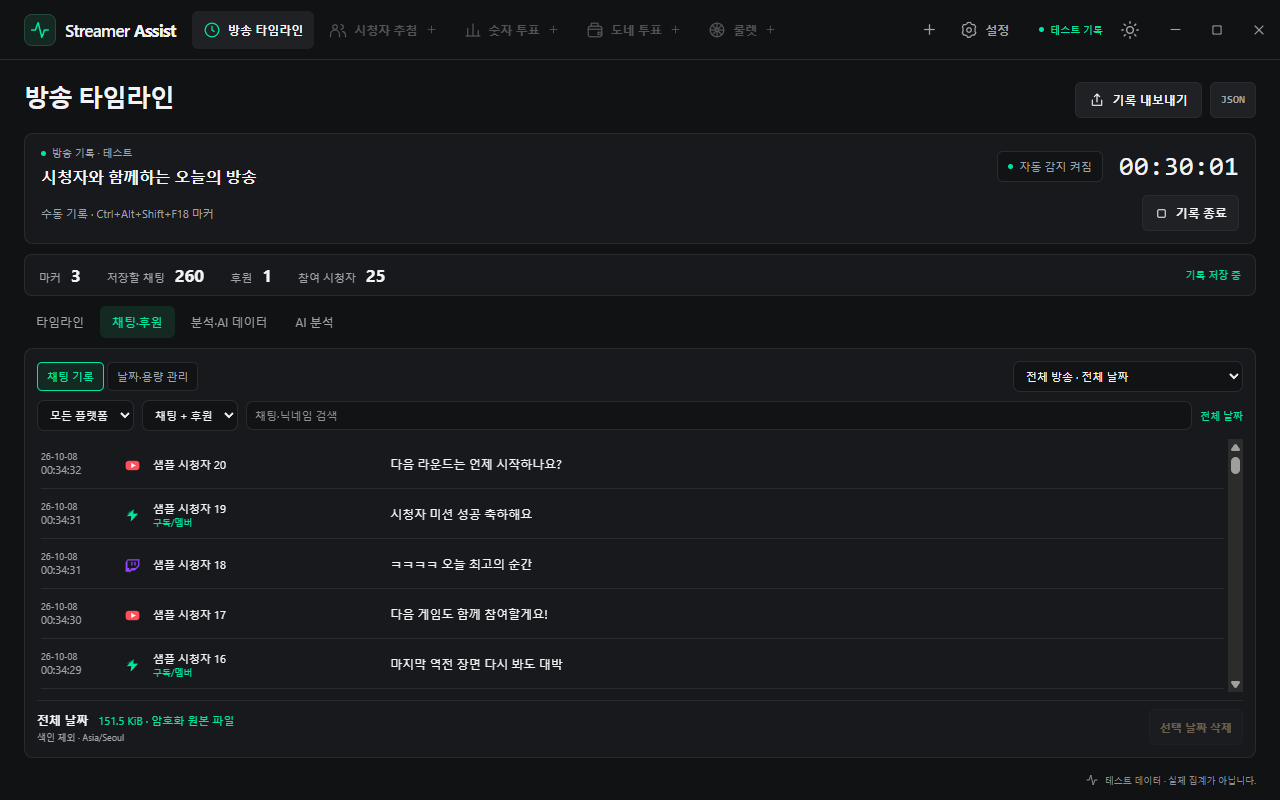
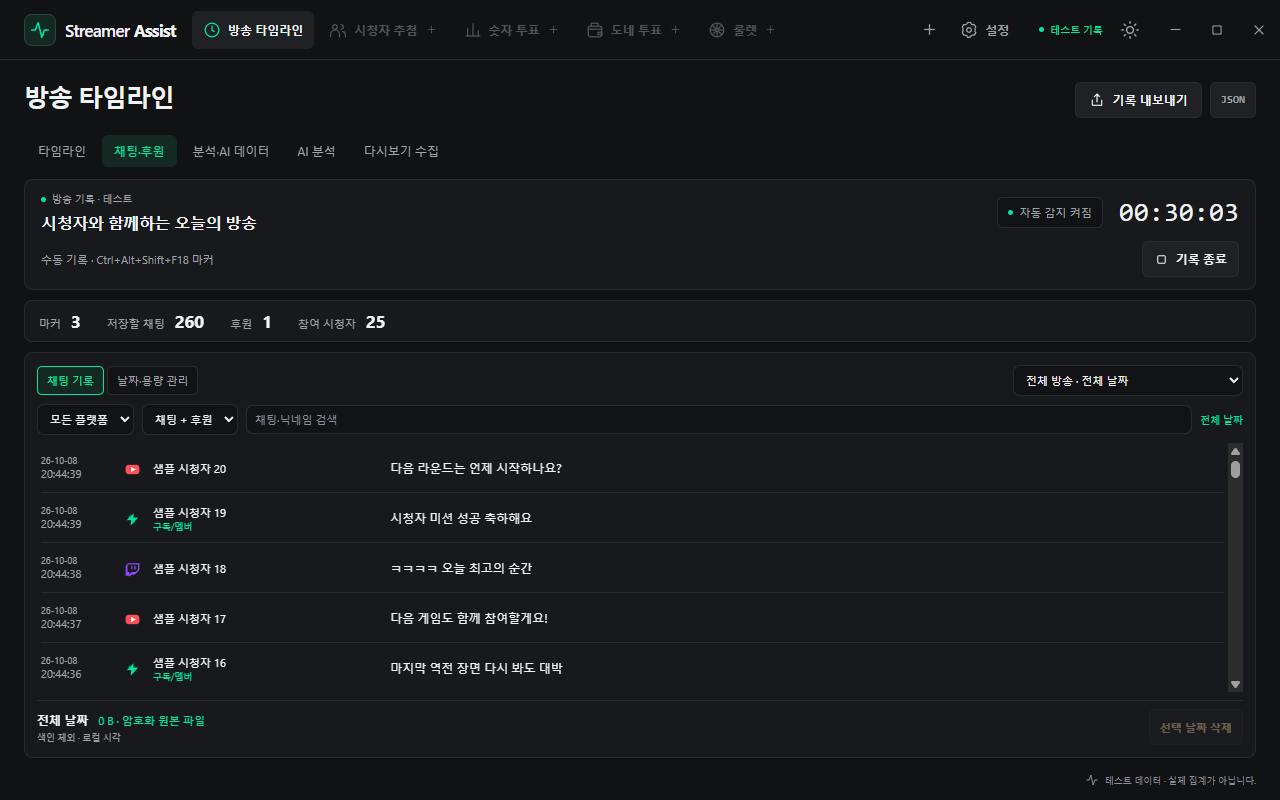
Improve timeline layout and recording performance; refresh documentation

diff --git a/src/timeline.tsx b/src/timeline.tsx
@@ -137,8 +137,12 @@ function ViewerChart({
       </div>
       <div className="viewer-chart">
         {known.length ? (
+          <div className="viewer-graph">
+            <div className="viewer-y-axis" data-max={max.toLocaleString()} aria-hidden="true">
+              {[1, 0.5, 0].map(f => <span key={f} style={{ top: `${(1 - f) * 100}%` }}>{Math.round(max * f).toLocaleString()}</span>)}
+            </div>
           <svg
-            viewBox="0 0 570 176"
+            viewBox="38 28 510 120"
             preserveAspectRatio="none"
             role="img"
             aria-label="방송 경과 시간에 따른 실제 동시 시청자 수 그래프"
@@ -152,19 +156,14 @@ function ViewerChart({
                   y2={148 - f * 120}
                   className="chart-grid"
                 />
-                <text x="30" y={152 - f * 120} textAnchor="end">
-                  {Math.round(max * f)}
-                </text>
               </g>
             ))}
             <path d={path} className={"viewer-line " + platform} />
-            <text x="38" y="169">
-              {timecode(0)}
-            </text>
-            <text x="548" y="169" textAnchor="end">
-              {timecode(end)}
-            </text>
           </svg>
+            <div className="viewer-x-axis" aria-hidden="true">
+              <span>{timecode(0)}</span><span>{timecode(end)}</span>
+            </div>
+          </div>
         ) : (
           <div className="telemetry-empty">
             <Icon name="activity" size={27} />
@@ -376,6 +375,44 @@ export function TimelineWorkspace({
   );
   return (
     <div className={"timeline-workspace page-body" + (view === "ai" ? " ai-timeline-view" : "")}>
+      <div className="telemetry-toolbar">
+        <div
+          className="telemetry-tabs"
+          role="tablist"
+          aria-label="타임라인 화면"
+        >
+          {[
+            ["overview", "타임라인"],
+            ["records", "채팅·후원"],
+            ["analysis", "분석·AI 데이터"],
+            ["ai", "AI 분석"],
+            ["replay", "다시보기 수집"],
+          ].map(([id, name]) => (
+            <button
+              key={id}
+              role="tab"
+              aria-selected={view === id}
+              onClick={() => setView(id as typeof view)}
+            >
+              {name}
+            </button>
+          ))}
+        </div>
+        <select
+          aria-label="방송 기록 선택"
+          style={{ visibility: view === "records" ? "hidden" : undefined }}
+          disabled={view === "records"}
+          value={selected}
+          onChange={(e) => onSelect(e.target.value)}
+        >
+          <option value="">현재 / 최근 방송</option>
+          {sessions.map((s) => (
+            <option key={s.id} value={s.id}>
+              {s.title}
+            </option>
+          ))}
+        </select>
+      </div>
       <section className="session-card telemetry-session" hidden={view === "replay"}>
         <div className="session-top">
           <div>
@@ -487,42 +524,6 @@ export function TimelineWorkspace({
             ? "저장 확인 필요"
             : "기록 저장 중"}
         </span>}
-      </div>
-      <div className="telemetry-toolbar">
-        <div
-          className="telemetry-tabs"
-          role="tablist"
-          aria-label="타임라인 화면"
-        >
-          {[
-            ["overview", "타임라인"],
-            ["records", "채팅·후원"],
-            ["analysis", "분석·AI 데이터"],
-            ["ai", "AI 분석"],
-            ["replay", "다시보기 수집"],
-          ].map(([id, name]) => (
-            <button
-              key={id}
-              role="tab"
-              aria-selected={view === id}
-              onClick={() => setView(id as typeof view)}
-            >
-              {name}
-            </button>
-          ))}
-        </div>
-        {view !== "records" && <select
-          aria-label="방송 기록 선택"
-          value={selected}
-          onChange={(e) => onSelect(e.target.value)}
-        >
-          <option value="">현재 / 최근 방송</option>
-          {sessions.map((s) => (
-            <option key={s.id} value={s.id}>
-              {s.title}
-            </option>
-          ))}
-        </select>}
       </div>
       {(error || monitoring?.error) && (
         <div

diff --git a/src/timeline.css b/src/timeline.css
@@ -5,6 +5,10 @@
   min-height: 0;
   overflow: hidden;
 }
+.timeline-workspace :is(button, input, textarea, select):focus-visible,
+.timeline-workspace .input-unit:focus-within {
+  outline-offset: -2px;
+}
 .telemetry-session {
   padding: 12px 16px;
 }
@@ -112,21 +116,29 @@
   color: var(--warning-ink);
 }
 .telemetry-toolbar {
-  display: flex;
+  display: grid;
+  grid-template-columns: minmax(0, 1fr) auto;
   align-items: center;
   justify-content: space-between;
   gap: 12px;
   flex: none;
 }
 .telemetry-toolbar select {
+  min-width: 0;
+  width: 220px;
   max-width: 220px;
   padding: 7px 9px;
 }
 .telemetry-tabs {
   display: flex;
   gap: 4px;
+  min-width: 0;
+  overflow-x: auto;
+  padding: 2px;
 }
 .telemetry-tabs button {
+  flex: none;
+  white-space: nowrap;
   border: 0;
   background: transparent;
   color: var(--muted);
@@ -184,14 +196,47 @@
   min-height: 0;
   display: flex;
 }
-.viewer-chart > svg {
+.viewer-graph {
+  display: grid;
+  grid-template-columns: auto minmax(0, 1fr);
+  grid-template-rows: minmax(0, 1fr) auto;
+  gap: 10px 8px;
+  flex: 1;
+  min-width: 0;
+  min-height: 0;
+  padding-top: calc(7px * var(--text-scale));
+}
+.viewer-graph > svg {
   width: 100%;
   height: 100%;
   min-height: 0;
 }
-.viewer-chart > svg text {
-  fill: var(--muted);
-  font-size: calc(9px * var(--text-scale));
+.viewer-y-axis,
+.viewer-x-axis {
+  color: var(--muted);
+  font-size: calc(10px * var(--text-scale));
+  line-height: 1.4;
+  font-variant-numeric: tabular-nums;
+  white-space: nowrap;
+}
+.viewer-y-axis {
+  position: relative;
+  min-width: 3ch;
+}
+.viewer-y-axis span {
+  position: absolute;
+  right: 0;
+  transform: translateY(-50%);
+}
+.viewer-y-axis::before {
+  content: attr(data-max);
+  visibility: hidden;
+}
+.viewer-x-axis {
+  grid-column: 2;
+  display: flex;
+  justify-content: space-between;
+  gap: 8px;
 }
 .chart-grid {
   stroke: var(--border);

diff --git a/src/history-records.tsx b/src/history-records.tsx
@@ -43,7 +43,7 @@ export function HistoryRecords({ filters, refresh, live, disabled, onParticipant
     return () => observer.disconnect();
   }, []);
   useEffect(() => {
-    let disposed = false, busy = false, records: TimelineEvent[] = [], cursor: HistoryCursor | null = null, remaining = true;
+    let disposed = false, busy = false, records: TimelineEvent[] = [], seen = new Set<string>(), cursor: HistoryCursor | null = null, remaining = true;
     setEvents([]); setError(""); setHasMore(true); setLoading(!disabled);
     if (viewport.current) viewport.current.scrollTop = 0;
     setPosition(previous => ({ ...previous, top: 0 }));
@@ -58,7 +58,7 @@ export function HistoryRecords({ filters, refresh, live, disabled, onParticipant
         // A reader who moved down while the latest batch was loading keeps their place.
         if (headRefresh && viewport.current && viewport.current.scrollTop > 0) return;
         const data = reply.data as HistoryRecordsResult;
-        const seen = new Set(append ? records.map(identity) : []);
+        if (!append) seen = new Set<string>();
         const next = data.events.filter(event => { const key = identity(event); if (seen.has(key)) return false; seen.add(key); return true; });
         records = append ? [...records, ...next] : next;
         cursor = data.nextCursor; remaining = data.hasMore;

diff --git a/src/ai-analysis.tsx b/src/ai-analysis.tsx
@@ -9,6 +9,7 @@ import type { AiJob, AiPreview, AiScope } from "./ai-types";
 import type { TimelineSession } from "./timeline-types";
 import functionCatalog from "../electron/ai-functions.json";
 import "./ai.css";
+import "./ai-assignments.css";
 const jobLabel: Record<string, string> = { preparing: "기록 준비 중", running: "분석 중", completed: "분석 완료", canceled: "취소됨", failed: "분석 실패" };
 function resultPagesFor(text: string, width: number, rows: number, font: string) {
   if (!text) return [""];

diff --git a/docs/assets/screenshots/README.md b/docs/assets/screenshots/README.md
@@ -6,6 +6,7 @@ Actual app screens with synthetic data. Choose a picture to open it at full reso
 | 보고 싶은 화면 / Area | 스크린샷 / Pictures |
 | --- | --- |
 | 방송 기록 / Recording | [타임라인 / Timeline](timeline.png) · [채팅 / Chat](chat-history.png) · [분석 / Analysis](chat-analysis.png) · [날짜 관리 / Storage](chat-storage.png) |
+| 타임라인 작업 / Timeline workspaces | [AI 분석 / AI analysis](ai-analysis.png) · [다시보기 수집 / Replay collection](replay.png) |
 | 시청자 참여 / Audience tools | [추첨 / Raffle](viewer-raffle.png) · [숫자 투표 / Number vote](live-poll.png) · [후원 투표 / Donation vote](donation-vote.png) · [룰렛 / Roulette](roulette.png) |
 | 탭·창·글자 크기 / Workspace | [탭 메뉴 / Tabs](workspace-tabs.png) · [보조 창 / Separate window](workspace-detached.png) · [큰 글자 / Larger text](text-size.png) |
 | AI 연결·설정 / AI | [AI 추가 / Add](ai-connectors.png) · [로그인 / Login](ai-login.png) · [기능별 설정 / Functions](ai-functions.png) · [그룹 설정 / Group](ai-function-editor.png) |
@@ -27,9 +28,10 @@ The main gallery uses unedited **1280 × 800** native Electron captures, refresh
 | Capture | Contents |
 | --- | --- |
 | home-dark / home-light / home-recording | Idle and recording workspaces. |
-| timeline | Sample viewer graph and manual/automatic markers. |
+| timeline | Stable navigation above broadcast controls, viewer axes that retain text proportions and manual/automatic markers. |
 | chat-history | Original-time rows, all-date scope and platform/type filters. |
 | chat-analysis | Local lexical activity, participant statistics and JSONL export controls. |
+| ai-analysis / replay | AI assignment notice, scope/prompt and results; replay collection controls while a sample recording is active. |
 | ai-connectors | The provider picker opened from an initially empty AI connection list. |
 | ai-login | Account connection dialog with a simulated successful CLI authentication response. |
 | ai-functions / ai-function-editor | Inline AI/model/reasoning dropdowns, automatic saving and group inheritance using synthetic connections; the second filename is retained from the earlier editor capture. |
@@ -48,6 +50,8 @@ npm run docs:screenshots:store
 The wrapper uses a checked renderer build, an isolated temporary profile, reduced motion and overflow/clipping checks. It removes the profile after Electron exits. Outputs are `release/readme-screens/` (1280 × 800) or `release/store-assets/screenshots/` (1600 × 900). No app installation or real poll publication occurs.
 
 Review every image before copying it here. Capture filenames stay shared by both READMEs. The displayed F18 shortcut belongs to the capture process; connection-button availability depends on developer client configuration. Do not substitute pictures from a reference voting site. Store submission selects its configured images separately; a new gallery is not automatically uploaded.
+
+The timeline, chat, analysis and storage captures now show the same top tab bar. AI analysis and replay captures use the same 1280 × 800 workflow. Viewer-axis text is separate from the resizing plot; keyboard focus stays inside timeline controls. Resize checks at 900 × 650, 1240 × 850 and 1600 × 1000 with 100%/150% text can be reproduced with `node scripts/test-desktop.cjs --suite timeline --screenshots --hidden`; their screenshots remain in `release/`.
 
 The AI connector image shows the provider picker, including bundled provider icons, in the same native 1280 × 800 documentation capture as the gallery. Separate `node scripts/test-desktop.cjs --build --suite ai-component --screenshots --hidden` captures also check the 900 × 650 layout.
 
@@ -71,6 +75,8 @@ Reproduce the text-size capture with `node scripts/test-desktop.cjs --build --su
 위 명령으로 검증된 빌드·격리 임시 프로필·동작 줄이기·스크롤/잘림 검사를 사용합니다. 종료 후 프로필을 제거하며 README는 `release/readme-screens/`, Store용 1600 × 900은 `release/store-assets/screenshots/`에 남습니다. 앱 설치나 실제 투표 게시를 하지 않습니다.
 
 이미지를 모두 검토한 뒤 이 폴더로 복사합니다. F18 조합은 캡처용이며 연결 버튼은 개발자 클라이언트 설정에 따라 달라집니다. 두 README가 같은 파일 이름을 사용하고 참고 사이트 이미지를 대신 넣지 않습니다. Store 제출용 이미지는 별도로 선택하며 갤러리 갱신만으로 업로드하지 않습니다.
+
+타임라인·채팅·분석·날짜 관리 캡처에 동일한 상단 탭 메뉴를 반영했습니다. AI 분석과 다시보기 수집도 같은 1280 × 800 캡처로 추가했습니다. 동접 그래프는 축 글자를 그래프 확대와 분리하고, 키보드 포커스는 컨트롤 안쪽에 표시합니다. `node scripts/test-desktop.cjs --suite timeline --screenshots --hidden`으로 900 × 650·1240 × 850·1600 × 1000 창과 글자 크기 100%·150% 검사를 재현할 수 있습니다. 검사 스크린샷은 `release/`에 보관합니다.
 
 AI 연결 이미지는 공급자 아이콘이 포함된 AI 추가 선택창이며 갤러리와 같은 1280 × 800 문서 캡처입니다. 별도의 `node scripts/test-desktop.cjs --build --suite ai-component --screenshots --hidden` 캡처에서도 900 × 650 배치를 확인합니다.
 

diff --git a/docs/certification.md b/docs/certification.md
@@ -12,6 +12,7 @@
 6. 투표 종료 후 **결과로 룰렛**으로 득표수를 전달하거나, **룰렛**에서 독립적으로 항목·가중치를 입력해 회전과 당첨 결과를 확인합니다.
 7. 타임라인의 동접 그래프, **채팅·후원** 전체 날짜/플랫폼 필터, **날짜·용량 관리** 일·주·월 선택을 확인합니다. **분석·AI 데이터**에서 로컬 통계·JSONL을 확인하고 방송 종료 후 마커를 Markdown/JSON으로 내보냅니다. **정보·데이터**에서 개인정보처리방침과 기록 삭제를 확인합니다.
 8. **+**나 탭 우클릭 메뉴로 같은 도구를 여러 탭·창에 열어 봅니다. 순서 이동·창 간 이동·탭 닫기·모두 닫기를 확인합니다. 기록·플랫폼 수집은 공유하며 탭을 닫아도 계속됩니다. 배치·창 위치는 재시작 후 복원합니다.
+9. 타임라인 내부의 다섯 탭은 방송 기록 패널 위에 같은 순서·위치로 표시됩니다. 탭 전환, 키보드 포커스, 창 확대와 글자 크기 150%에서 탭·필터 테두리와 동접 그래프의 축 숫자·시간이 잘리거나 늘어나지 않는지 확인합니다. **AI 분석**의 미지정 안내와 **다시보기 수집**도 같은 상단 탐색을 사용합니다.
 9. **설정 → 일반 → 글자 크기**를 95~150%로 조절하고 기본값 복원과 창 간 동기화를 확인합니다. 숫자·도네 투표는 **자동 종료 타이머**를 분·초로 설정해 남은 시간과 종료를 확인할 수 있습니다.
 
 ## 선택적 AI 연결·분석 확인

diff --git a/docs/certification.en.md b/docs/certification.en.md
@@ -12,6 +12,7 @@ This Windows desktop app provides broadcast timelines, local chat reaction highl
 6. Import an ended vote with **결과로 룰렛**, or create independent weighted roulette entries.
 7. In the timeline, inspect the viewer graph, **채팅·후원** all-date/platform filters and **날짜·용량 관리** day/week/month selection. In **분석·AI 데이터**, inspect local statistics and export JSONL. Stop the recording and export Markdown/JSON. **설정 → 정보·데이터** provides the bundled policy and confirmed record deletion.
 8. Use **+** or the tab context menu to open multiple instances in tabs/windows. Check reordering, transfers, Close and Close All. Recording and platform collection remain shared and continue after a tab closes. Layouts and window positions survive restart.
+9. The five timeline view tabs keep the same order and position above broadcast controls. Check view switching, keyboard focus, larger windows and 150% text size: tab/filter outlines and viewer-axis values/timestamps should stay visible without stretching. **AI 분석** includes an unassigned-AI notice; **다시보기 수집** uses the same navigation.
 9. Adjust **설정 → 일반 → 글자 크기** from 95% to 150% and check reset/window synchronization. Number and donation votes offer **자동 종료 타이머** in minutes/seconds with a remaining-time display and automatic closing.
 
 ## Optional AI connection and analysis checks

diff --git a/docs/user-guide.ko.md b/docs/user-guide.ko.md
@@ -58,6 +58,10 @@
 
 ## 타임라인과 하이라이트
 
+화면 상단의 **타임라인 · 채팅·후원 · 분석·AI 데이터 · AI 분석 · 다시보기 수집** 탭으로 이동합니다. 탭 메뉴는 방송 기록 패널 위에 있어 화면을 바꿔도 같은 위치를 유지합니다. 창이 좁으면 탭 메뉴를 가로로 스크롤할 수 있습니다. 방송 선택은 오른쪽에서, **채팅·후원**의 방송·날짜 선택은 해당 기록 패널에서 합니다.
+
+동접 그래프의 축 숫자와 시간은 창을 크게 키워도 글자 비율이 유지되며, 설정한 글자 크기를 따릅니다. 키보드로 탭·필터를 이동하면 포커스 테두리가 컨트롤 안쪽에 표시됩니다. [타임라인 화면](assets/screenshots/timeline.png)을 참고하세요.
+
 1. **방송 기록 시작**으로 기록을 시작합니다. 자동으로 시작하려면 **방송 자동 감지**를 켭니다.
 2. 다시 보고 싶은 순간에 **마커** 또는 전역 단축키를 누릅니다. 설치 버전 기본 키는 `Ctrl+Shift+F8`입니다.
 3. **방송 기록 종료**로 저장합니다. 채팅·동접과 기록한 순간은 계속 조회할 수 있습니다.

diff --git a/docs/user-guide.md b/docs/user-guide.md
@@ -58,6 +58,10 @@ Only connected platforms appear as participation buttons, and only confirmed liv
 
 ## Timeline and highlights
 
+Use the **타임라인 · 채팅·후원 · 분석·AI 데이터 · AI 분석 · 다시보기 수집** tabs at the top of the workspace. Navigation sits above the broadcast controls and stays in the same position when switching views. Scroll the tab bar horizontally in a narrow window. Select a broadcast on the right; **채팅·후원** has its own broadcast/date selector inside the archive panel.
+
+Viewer-axis values and timestamps retain their proportions when the window grows and follow the text-size setting. Keyboard focus appears inside tab buttons and filters. See the [timeline screen](assets/screenshots/timeline.png).
+
 1. Press **방송 기록 시작** to record. Enable **방송 자동 감지** for automatic start.
 2. Press **마커** or the global shortcut at a moment to revisit. Installed builds default to `Ctrl+Shift+F8`.
 3. Press **방송 기록 종료** to save. Chat, viewer samples and marked moments remain available.

diff --git a/README.md b/README.md
@@ -61,7 +61,7 @@ Click a picture for full resolution. All screens use synthetic data.
 
 <table>
   <tr>
-    <td width="50%"><a href="docs/assets/screenshots/timeline.png"><img src="docs/assets/screenshots/timeline.png" alt="Broadcast clock, viewer graph and markers"></a><br><strong>Broadcast timeline</strong><br>Keep the stream clock, viewer samples and marked moments together.</td>
+    <td width="50%"><a href="docs/assets/screenshots/timeline.png"><img src="docs/assets/screenshots/timeline.png" alt="Broadcast clock, viewer graph and markers"></a><br><strong>Broadcast timeline</strong><br>Use a stable tab bar above the stream clock, viewer graph and marked moments.</td>
     <td width="50%"><a href="docs/assets/screenshots/viewer-raffle.png"><img src="docs/assets/screenshots/viewer-raffle.png" alt="Viewer recruitment and raffle result"></a><br><strong>Viewer raffle</strong><br>Draw a participant from chat.</td>
   </tr>
   <tr>

diff --git a/README.ko.md b/README.ko.md
@@ -61,7 +61,7 @@ npm run dev
 
 <table>
   <tr>
-    <td width="50%"><a href="docs/assets/screenshots/timeline.png"><img src="docs/assets/screenshots/timeline.png" alt="방송 시계·동접 그래프·마커"></a><br><strong>방송 기록</strong><br>방송 시계, 동접과 기록한 순간을 함께 봅니다.</td>
+    <td width="50%"><a href="docs/assets/screenshots/timeline.png"><img src="docs/assets/screenshots/timeline.png" alt="방송 시계·동접 그래프·마커"></a><br><strong>방송 기록</strong><br>같은 위치의 탭 메뉴 아래에서 방송 시계, 동접과 기록한 순간을 봅니다.</td>
     <td width="50%"><a href="docs/assets/screenshots/viewer-raffle.png"><img src="docs/assets/screenshots/viewer-raffle.png" alt="시청자 모집과 추첨 결과"></a><br><strong>시청자 추첨</strong><br>채팅 참여자 중 한 명을 뽑습니다.</td>
   </tr>
   <tr>

diff --git a/docs/ai-integrations.ko.md b/docs/ai-integrations.ko.md
@@ -13,6 +13,8 @@
 
 연결할 AI는 Codex·Claude·Grok·Antigravity·DeepSeek·Kimi 중 선택할 수 있습니다.
 
+[AI 분석 화면](assets/screenshots/ai-analysis.png)은 왼쪽에 기능·범위·질문 입력, 오른쪽에 결과를 표시합니다. 사용할 AI가 지정되지 않으면 안내 패널의 **AI 지정하기**로 설정을 엽니다. 상단 **기능별 AI 설정**에서도 변경할 수 있습니다. 다른 타임라인 화면으로 전환해도 탭 메뉴 위치는 유지됩니다.
+
 ## 지원 방식
 
 | 방식 | 연결 방법 | 요금·권한 |
